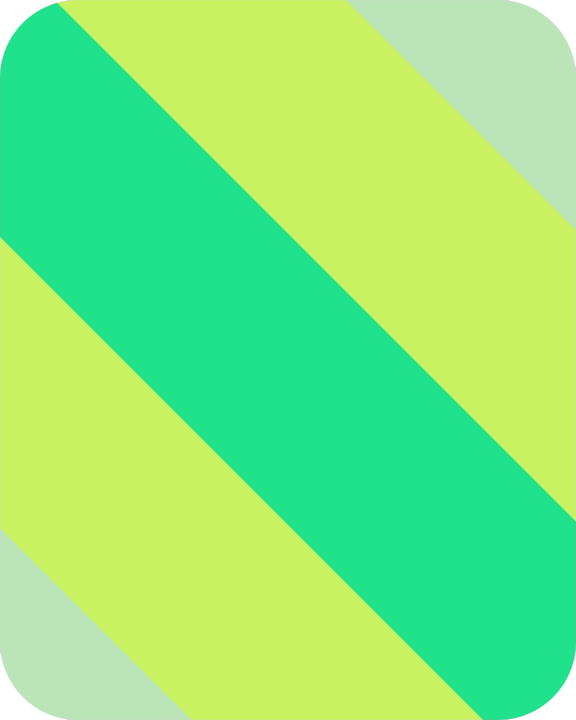
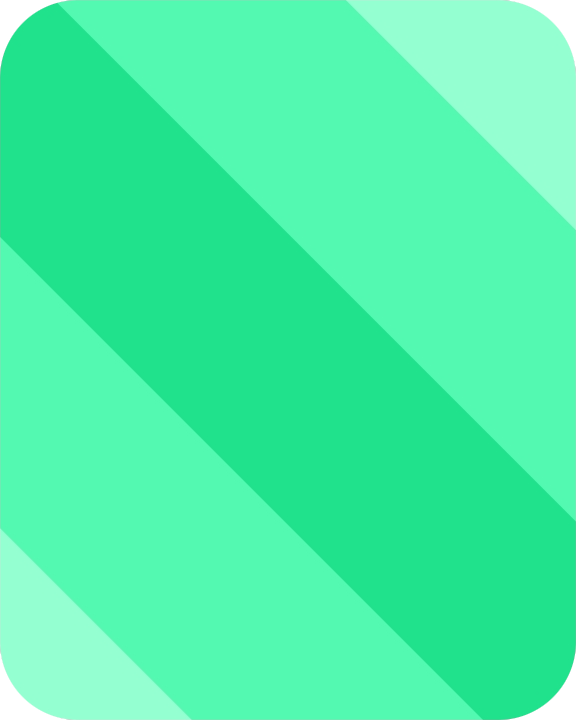
210829
HTML:
Stripes Generator
-Updated some templates from Update 5

diff --git a/HTML/stripesGenerator/stripesGenerator.html b/HTML/stripesGenerator/stripesGenerator.html
@@ -214,16 +214,16 @@
 				<img src="templates\Hello Red Light.png" class="templateimg" title="Hello Red Light" alt="Hello Red Light" onclick="Template('#fde9e9','#fde9e9','#FDC4CC','#fc9faf','#ea4d5b','#ea4d5b','#fc9faf','#FDC4CC','#fde9e9','45','150','-398')"/>
 				<img src="templates\Hello Red Dark.png" class="templateimg" title="Hello Red Dark" alt="Hello Red Dark" onclick="Template('#58050c','#58050c','#850915','#b10d1e','#f75a76','#f75a76','#b10d1e','#850915','#58050c','45','150','-398')"/>
 				<img src="templates\Hello Yellow Light.png" class="templateimg" title="Hello Yellow Light" alt="Hello Yellow Light" onclick="Template('#fdf8df','#fdf8df','#FDE5A5','#fcd26a','#fdbf47','#fdbf47','#fcd26a','#FDE5A5','#fdf8df','45','150','-398')"/>
-				<img src="templates\Hello Yellow Dark.png" class="templateimg" title="Hello Yellow Dark" alt="Hello Yellow Dark" onclick="Template('#7c3d03','#7c3d03','#A25C07','#c87a0a','#fbbc3d','#fbbc3d','#c87a0a','#A25C07','#7c3d03','45','150','-398')"/>
-				<img src="templates\Air Green Light.png" class="templateimg" title="Air Green Light" alt="Air Green Light" onclick="Template('#bbe4b9','#bbe4b9','#caf160','#caf160','#20e28d','#20e28d','#caf160','#caf160','#bbe4b9','45','150','-398')"/>
-				<img src="templates\Air Green Dark.png" class="templateimg" title="Air Green Dark" alt="Air Green Dark" onclick="Template('#65b667','#65b667','#78a01a','#78a01a','#078f3d','#078f3d','#78a01a','#78a01a','#65b667','45','150','-398')"/>
-				<img src="templates\Air Pink Light.png" class="templateimg" title="Air Pink Light" alt="Air Pink Light" onclick="Template('#feb8c0','#feb8c0','#f87d70','#f87d70','#f73a89','#f73a89','#f87d70','#f87d70','#feb8c0','45','150','-398')"/>
+				<img src="templates\Hello Yellow Dark.png" class="templateimg" title="Hello Yellow Dark" alt="Hello Yellow Dark" onclick="Template('#3c1e01','#3c1e01','#88500b','#c27c19','#ffb31a','#ffb31a','#c27c19','#88500b','#3c1e01','45','150','-398')"/>
+				<img src="templates\Air Green Light.png" class="templateimg" title="Air Green Light" alt="Air Green Light" onclick="Template('#94ffd1','#94ffd1','#53f9b1','#53f9b1','#20e28d','#20e28d','#53f9b1','#53f9b1','#94ffd1','45','150','-398')"/>
+				<img src="templates\Air Green Dark.png" class="templateimg" title="Air Green Dark" alt="Air Green Dark" onclick="Template('#3dd67a','#3dd67a','#29ae5e','#29ae5e','#078f3d','#078f3d','#29ae5e','#29ae5e','#3dd67a','45','150','-398')"/>
+				<img src="templates\Air Pink Light.png" class="templateimg" title="Air Pink Light" alt="Air Pink Light" onclick="Template('#feb8c0','#feb8c0','#f87d70','#f87d70','#b7584e','#b7584e','#f87d70','#f87d70','#feb8c0','45','150','-398')"/>
 				<img src="templates\Air Pink Dark.png" class="templateimg" title="Air Pink Dark" alt="Air Pink Dark" onclick="Template('#d97b7d','#d97b7d','#af0b4a','#af0b4a','#930353','#930353','#af0b4a','#af0b4a','#d97b7d','45','150','-398')"/>
 				<img src="templates\Air Blue Light.png" class="templateimg" title="Air Blue Light" alt="Air Blue Light" onclick="Template('#cffdfd','#cffdfd','#97c8fa','#97c8fa','#3b6fd4','#3b6fd4','#97c8fa','#97c8fa','#cffdfd','45','150','-398')"/>
-				<img src="templates\Air Blue Dark.png" class="templateimg" title="Air Blue Dark" alt="Air Blue Dark" onclick="Template('#1787da','#1787da','#326ed9','#326ed9','#3e1aaf','#3e1aaf','#326ed9','#326ed9','#1787da','45','150','-398')"/>
+				<img src="templates\Air Blue Dark.png" class="templateimg" title="Air Blue Dark" alt="Air Blue Dark" onclick="Template('#1787da','#1787da','#326ed9','#326ed9','#1c4387','#1c4387','#326ed9','#326ed9','#1787da','45','150','-398')"/>
 				<img src="templates\Carplay Black-White.png" class="templateimg" title="Carplay Black-White" alt="Carplay Black-White" onclick="Template('#7a7a7a','#7a7a7a','#7a7a7a','#7a7a7a','#7a7a7a','#dedede','#dedede','#dedede','#dedede','10','0','-130')"/>
 				<img src="templates\Carplay Brown-Beige.png" class="templateimg" title="Carplay Brown-Beige" alt="Carplay Brown-Beige" onclick="Template('#81725f','#81725f','#81725f','#81725f','#81725f','#c5b9a9','#c5b9a9','#c5b9a9','#c5b9a9','10','0','-130')"/>
-				<img src="templates\Carplay Green-Blue.png" class="templateimg" title="Carplay Green-Blue" alt="Carplay Green-Blue" onclick="Template('#248905','#248905','#248905','#248905','#248905','#3c63c8','#3c63c8','#3c63c8','#3c63c8','10','0','-130')"/>
+				<img src="templates\Carplay Green-Blue.png" class="templateimg" title="Carplay Green-Blue" alt="Carplay Green-Blue" onclick="Template('#38a617','#38a617','#38a617','#38a617','#38a617','#3c63c8','#3c63c8','#3c63c8','#3c63c8','10','0','-130')"/>
 				<img src="templates\Carplay Red-Pink.png" class="templateimg" title="Carplay Red-Pink" alt="Carplay Red-Pink" onclick="Template('#960d1c','#960d1c','#960d1c','#960d1c','#960d1c','#de434d','#de434d','#de434d','#de434d','10','0','-130')"/>
 				<img src="templates\Carplay Blue-Orange.png" class="templateimg" title="Carplay Blue-Orange" alt="Carplay Blue-Orange" onclick="Template('#2e5991','#2e5991','#2e5991','#2e5991','#2e5991','#dc483f','#dc483f','#dc483f','#dc483f','10','0','-130')"/>
 				<img src="templates\Boeing.png" class="templateimg" title="Boeing" alt="Boeing" onclick="Template('#0046a7','#0046a7','#0074da','#0074da','#00b3fe','#00b3fe','#5bd2ff','#5bd2ff','#5bd2ff','-45','-320','60')"/>
@@ -233,7 +233,7 @@
 				<img src="templates\Update4.png" class="templateimg" title="Update #4 'Bug Fix'" alt="Update #4 'Bug Fix'" onclick="Template('#24425c','#24425c','#24425c','#ffffff','#b71222','#ffffff','#b71222','#ffffff','#b71222','0','0','0')"/>
 				<img src="templates\Update5.png" class="templateimg" title="Update #5 'Apple Match'" alt="Update #5 'Apple Match'" onclick="Template('#00a4f5','#00a4f5','#0092e8','#0092e8','#0093be','#0093be','#00c87d','#00c87d','#6ad800','45','150','-398')"/>
 				<img src="templates\Update6.png" class="templateimg" title="Update #6 'Font Change'" alt="Update #6 'Font Change'" onclick="Template('#454545','#ffffff','#454545','#ffffff','#454545','#ffffff','#454545','#ffffff','#454545','-45','-320','60')"/>
-				
+				<img src="templates\Update7.png" class="templateimg" title="Update #7 'Apple Update'" alt="Update #7 'Apple Update'" onclick="Template('#2088bd','#2088bd','#1b7ab2','#1b7ab2','#0f718e','#0f718e','#159364','#159364','#0cac6e','45','150','-398')"/>
 				
 				<script>
 					function Template(a,b,c,d,e,f,g,h,i,r,x,y) {
@@ -349,7 +349,7 @@
                 </svg></a>
 				<br/>Font can be found <a href="https://fonts.google.com/specimen/Atkinson+Hyperlegible">here</a>
 				
-				<br/><br/>Submit your stripes on Twitter<br/>
+				<br/><br/>Share your stripes on Twitter<br/>
 				<a href="https://twitter.com/intent/tweet?text=I%20made%20this%20cool%20design%20using%20Stripes%20Generator%20@chauhansai_dev" title="Twitter" target="_blank"><img src="https://simpleicons.org/icons/twitter.svg" id="twitter" class="buttons"/></a>
 			
 		</footer>
